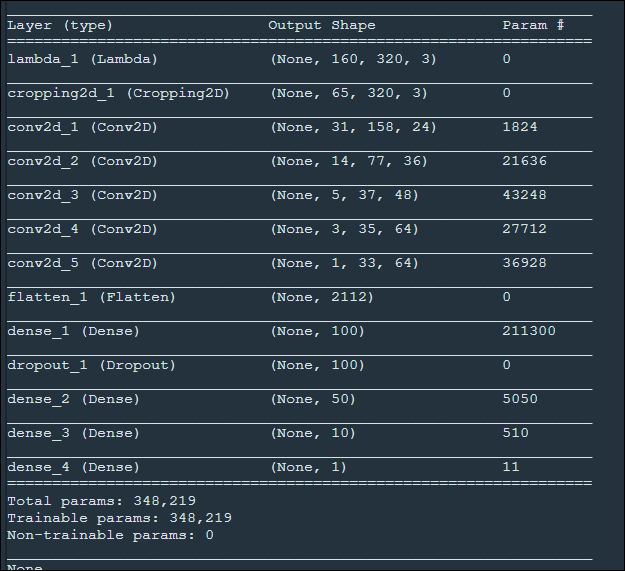
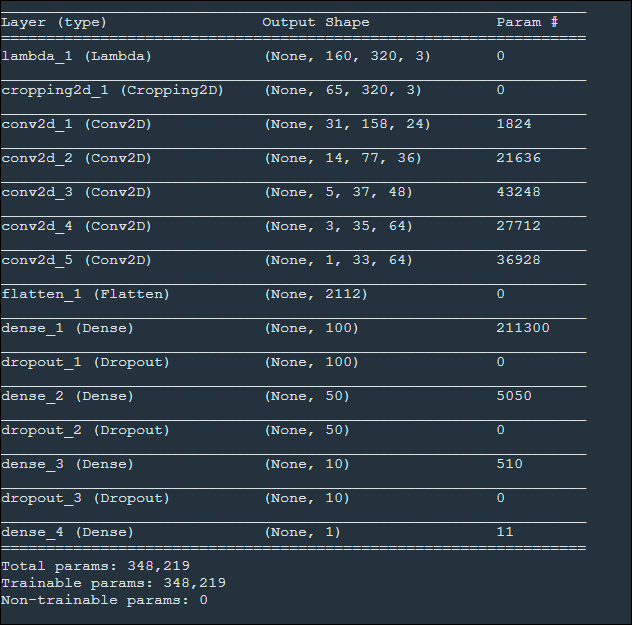
added the writeup and some images for documentation

Changed region(s): [[0.0, 0.0, 0.9424, 1.0]]

diff --git a/writeup.md b/writeup.md
@@ -1,0 +1,145 @@
+# **Behavioral Cloning** 
+
+## Writeup
+
+**Behavioral Cloning Project**
+
+The goals / steps of this project are the following:
+* Use the simulator to collect data of good driving behavior
+* Build, a convolution neural network in Keras that predicts steering angles from images
+* Train and validate the model with a training and validation set
+* Test that the model successfully drives around track one without leaving the road
+* Summarize the results with a written report
+
+
+[//]: # "Image References"
+
+[image1]: ./images/model_summary.png "Model Visualization"
+[image2]: ./images/histogram.png "Training Data histogram"
+[image3]: ./images/placeholder_small.png "Recovery Image"
+[image4]: ./images/placeholder_small.png "Recovery Image"
+[image5]: ./images/placeholder_small.png "Recovery Image"
+[image6]: ./images/placeholder_small.png "Normal Image"
+[image7]: ./images/placeholder_small.png "Flipped Image"
+
+## Rubric Points
+### Here I will consider the [rubric points](https://review.udacity.com/#!/rubrics/432/view) individually and describe how I addressed each point in my implementation.  
+
+---
+### Files Submitted & Code Quality
+
+#### 1. Submission includes all required files and can be used to run the simulator in autonomous mode
+
+My project includes the following files:
+* model.py containing the script to create and train the model
+* drive.py for driving the car in autonomous mode
+* model.h5 containing a trained convolution neural network 
+* writeup_report.md or writeup_report.pdf summarizing the results
+
+#### 2. Submission includes functional code
+Using the Udacity provided simulator and my drive.py file, the car can be driven autonomously around the track by executing 
+```sh
+python drive.py model.h5
+```
+
+#### 3. Submission code is usable and readable
+
+The model.py file contains the code for training and saving the convolution neural network. The file shows the pipeline I used for training and validating the model, and it contains comments to explain how the code works.
+
+### Model Architecture and Training Strategy
+
+#### 1. An appropriate model architecture has been employed
+
+My model consists of a convolution neural network with 5x5 and 3x3 filter sizes and depths between 24and 64(model.py lines 96-100)
+
+The model includes RELU layers to introduce nonlinearity (code line 20), and the data is normalized in the model using a Keras lambda layer (code line 18). 
+
+#### 2. Attempts to reduce overfitting in the model
+
+The model contains dropout layers in order to reduce overfitting (model.py lines 21). 
+
+The model was trained and validated on different data sets to ensure that the model was not overfitting (code line 10-16). The model was tested by running it through the simulator and ensuring that the vehicle could stay on the track.
+
+#### 3. Model parameter tuning
+
+The model used an adam optimizer, so the learning rate was not tuned manually (model.py line 25).
+
+#### 4. Appropriate training data
+
+Training data was chosen to keep the vehicle driving on the road. I used a combination of center lane driving, recovering from the left and right sides of the road ... 
+
+For details about how I created the training data, see the next section. 
+
+### Model Architecture and Training Strategy
+
+#### 1. Solution Design Approach
+
+The overall strategy for deriving a model architecture was to ...
+
+My first step was to use a convolution neural network model similar to the lenet architecture described in the class. It is a powerful model with deep enough layers to tackle the various road conditions and variations. While it performed fine with smaller training data, the performance couldn't be replicated with larger data set when many scenarios had been captured in the training data. Here is the summary of the modified lenet, with dropouts added after dense layers.
+
+<img src="C:\Users\Nikhparl\Documents\Aptiv_MY_Documents\Acads\Udacity\behavioral_cloning\CarND-Behavioral-Cloning-P3-master\images\lenet_model_summary.png" alt="lenet" style="zoom:75%;" />
+
+Moving on, I implemented the NVIDIA team model as suggested in the class with a couple of variations.
+
+In order to gauge how well the model was working, I split my image and steering angle data into a training and validation set with 80% and 20% of the images respectively.
+
+I noted down in the 'progress' section of the README.md all the steps I have taken to come to the final model and data augmentation. I found that my first model had a low mean squared error on the training set but a high mean squared error on the validation set. This implied that the model was overfitting. 
+
+To combat the overfitting, I modified the model by adding additional dropout layers after 
+
+Then I ... 
+
+The final step was to run the simulator to see how well the car was driving around track one. There were a few spots where the vehicle fell off the track... to improve the driving behavior in these cases, I ....
+
+At the end of the process, the vehicle is able to drive autonomously around the track without leaving the road.
+
+#### 2. Final Model Architecture
+
+The final model architecture (model.py lines 18-24) consisted of a convolution neural network with the following layers and layer sizes -
+
+- convolutional layer with filter depth as 24 and filter size as (5,5) with (2,2) stride followed by RELU activation function
+- convolutional layer with filter depth as 36and filter size as (5,5) with (2,2) stride followed by RELU activation function
+- convolutional layer with filter depth as 48 and filter size as (5,5) with (2,2) stride followed by RELU activation function
+- convolutional layer with filter depth as 64 and filter size as (3,3) followed by RELU activation function
+- convolutional layer with filter depth as 64 and filter size as (3,3) followed by RELU activation function
+- Then a flatten layer to convert from 2D to 1 dimension 
+- A fully connected layer with 100 outputs
+- A dropout layer with 50% dropouts to reduce overfitting
+- A fully connected layer with 50 outputs
+- A dropout layer with 50% dropouts to reduce overfitting
+- A fully connected layer with 10 outputs
+- A final dropout layer with 50% dropouts 
+- The final 1 output layer for the steering angle
+
+Here is a visualization of the architecture (note: visualizing the architecture is optional according to the project rubric)
+
+![nvidia_model](C:\Users\Nikhparl\Documents\Aptiv_MY_Documents\Acads\Udacity\behavioral_cloning\CarND-Behavioral-Cloning-P3-master\images\model_summary.png)
+
+#### 3. Creation of the Training Set & Training Process
+
+To capture good driving behavior, I first recorded two laps on track one using center lane driving. Here is an example image of center lane driving:
+
+![alt text][./examples/center_img_1.png]
+
+I then recorded the vehicle recovering from the left side and right sides of the road back to center so that the vehicle would learn to .... These images show what a recovery looks like starting from ... :
+
+![correction-1][./examples/correction_1.png]
+![correction_2][./examples/correction_2.png]
+![correction_3][./examples/correction_3.png]
+
+Then I repeated this process on track two in order to get more data points, when I finally had 12900 images to work with. 
+
+To augment the data sat, I also flipped images and angles thinking that this would as this would be a quick way to mimic the data driving the other way on the track
+
+![alt text][image6]
+![alt text][image7]
+
+The center images have been augmented with the left and right camera images by adding and subtracting respectively the steering angle by a factor of 0.3.
+
+After the collection process, I had 12900 number of data points. I then preprocessed this data by deleting the top 70 pixels and bottom 20 pixels of the images since they do not provide any valid features.
+
+
+I finally randomly shuffled the data set and put 20% of the data into a validation set. 
+
+I used this training data for training the model. The validation set helped determine if the model was over or under fitting. The ideal number of epochs was 10 as evidenced by the final val_loss values given the README.md.  I used an adam optimizer so that manually training the learning rate wasn't necessary.
